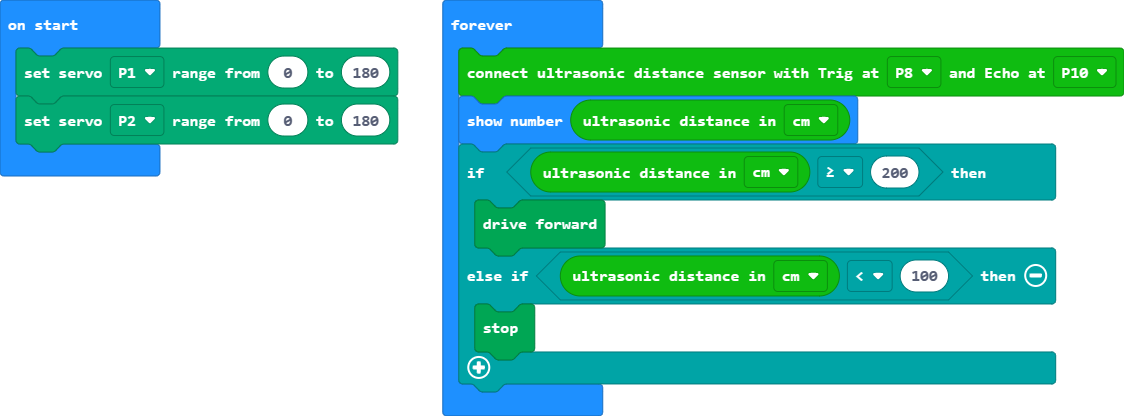
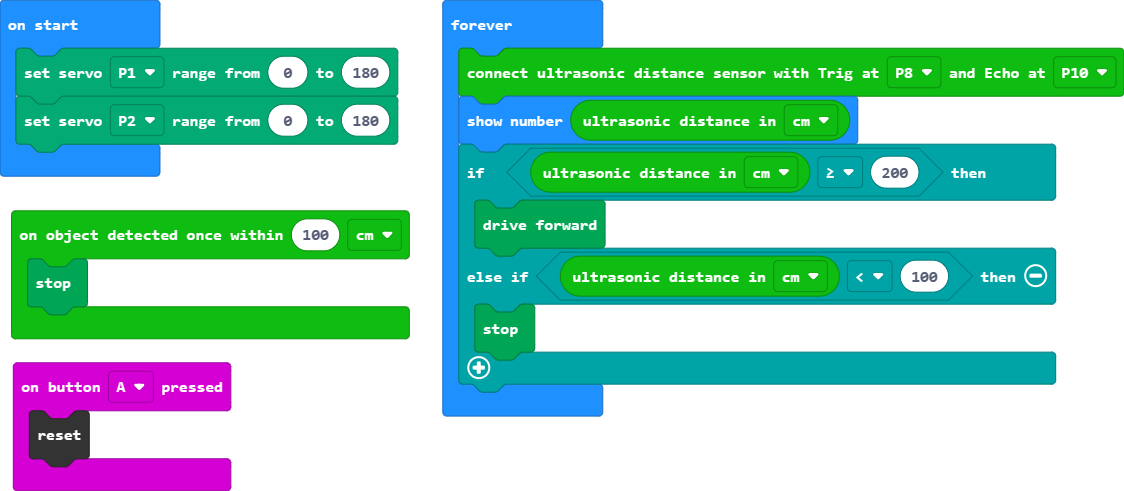
Update main.blocks, main.ts

diff --git a/main.ts b/main.ts
@@ -1,3 +1,9 @@
+input.onButtonPressed(Button.A, function () {
+    control.reset()
+})
+makerbit.onUltrasonicObjectDetected(100, DistanceUnit.CM, function () {
+    kitronik_servo_lite.stop()
+})
 servos.P1.setRange(0, 180)
 servos.P2.setRange(0, 180)
 basic.forever(function () {
